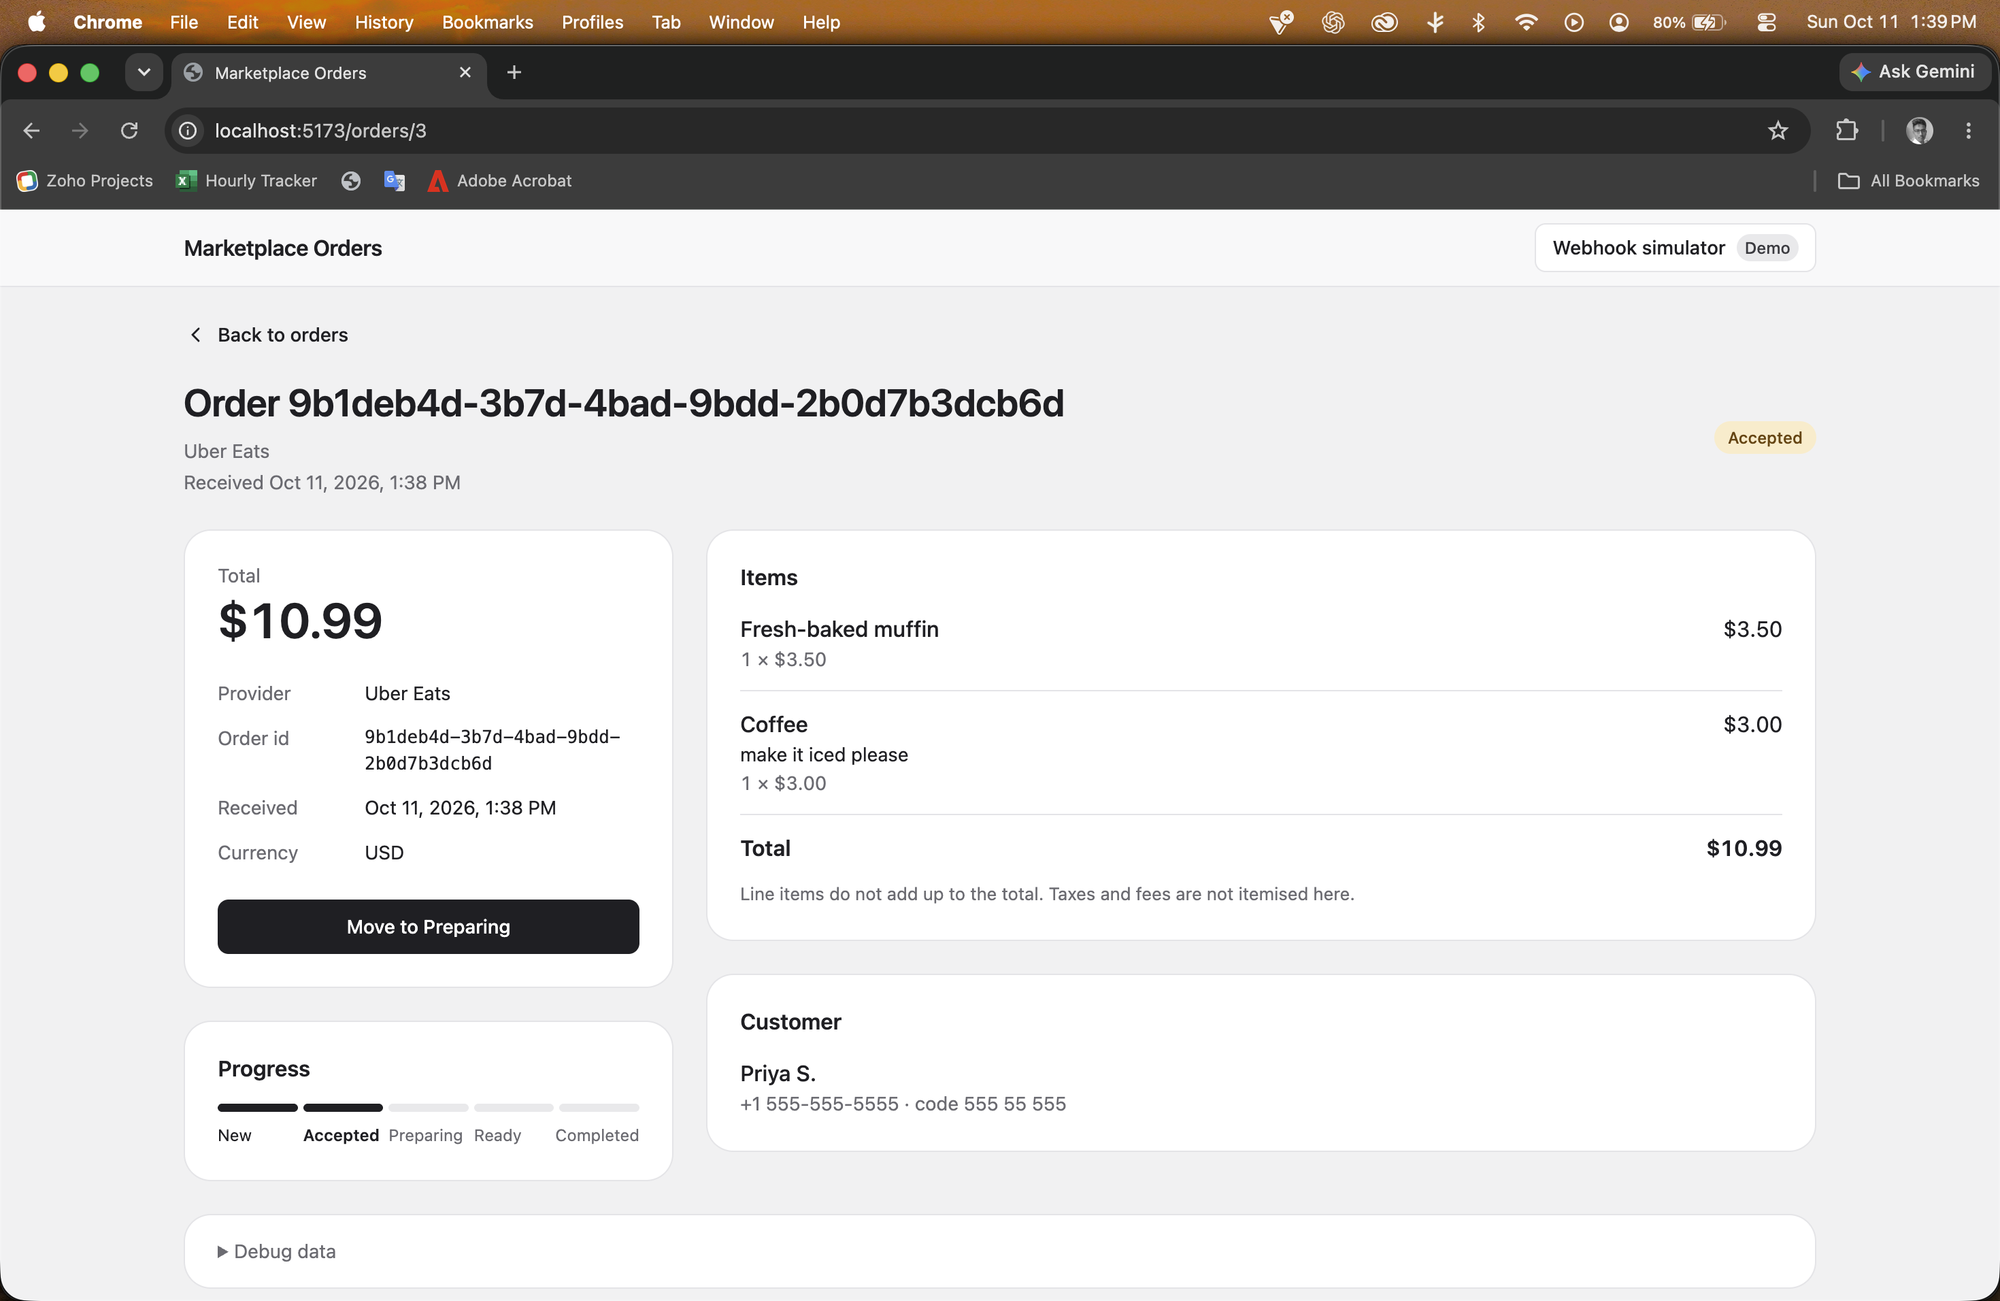
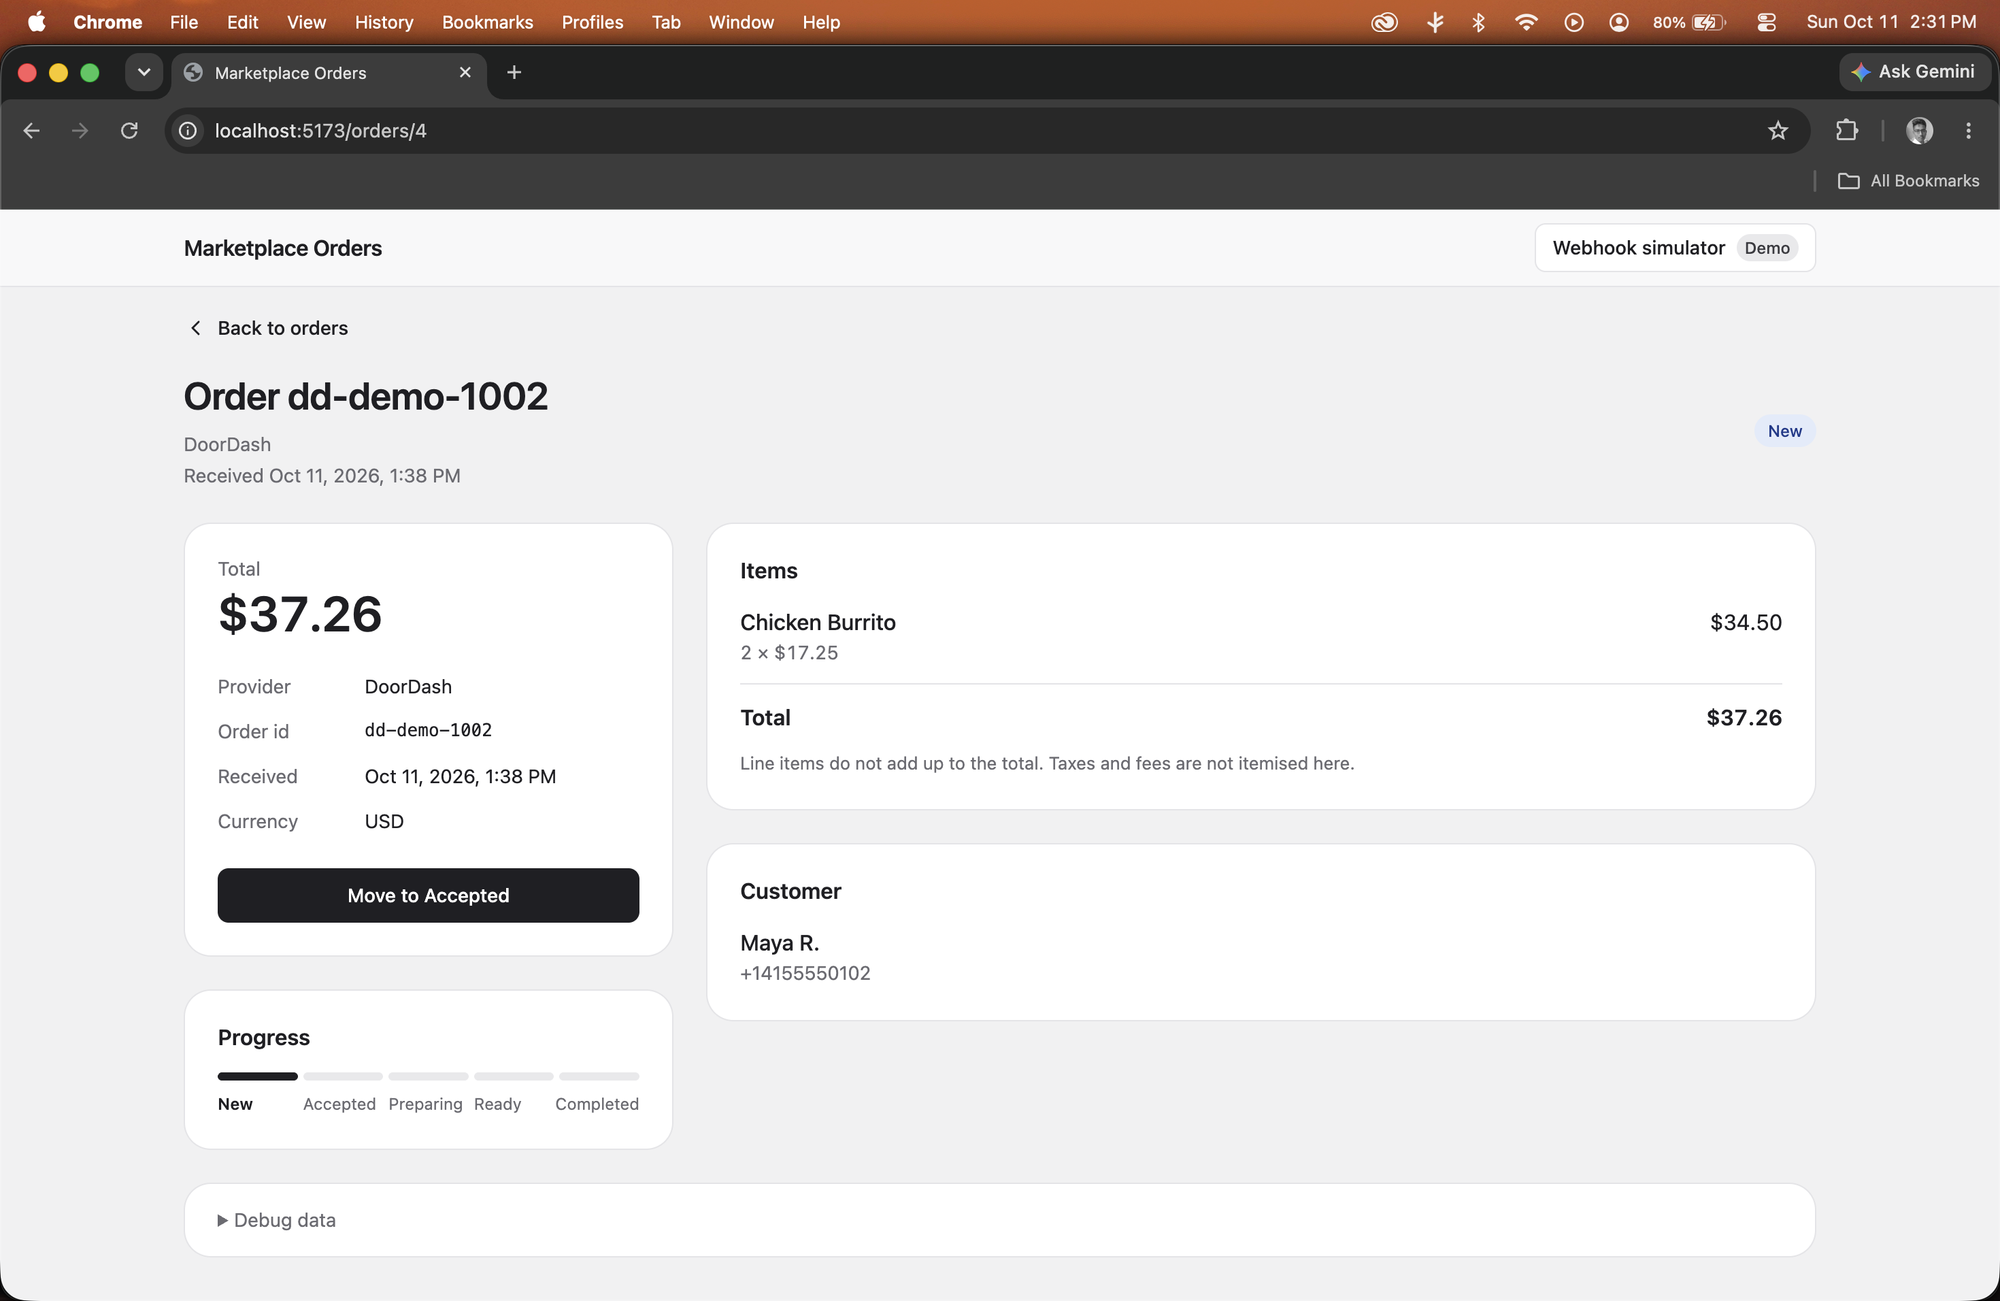
docs(docs): replace screenshots in readme
Use the new desktop and phone screenshots without the bookmarks bar, and
add the webhook simulator on a phone. The phone images are now png.

diff --git a/README.md b/README.md
@@ -427,9 +427,9 @@ The webhook simulator:
 
 ### Phone (390 px)
 
-| Order list | Order detail |
-| --- | --- |
-| <img src="docs/screenshots/orders-list-mobile.jpg" alt="Order list on a phone" width="360"> | <img src="docs/screenshots/order-detail-mobile.jpg" alt="Order detail on a phone" width="360"> |
+| Order list | Order detail | Webhook simulator |
+| --- | --- | --- |
+| <img src="docs/screenshots/orders-list-mobile.png" alt="Order list on a phone" width="300"> | <img src="docs/screenshots/order-detail-mobile.png" alt="Order detail on a phone" width="300"> | <img src="docs/screenshots/webhook-simulator-mobile.png" alt="Webhook simulator on a phone" width="300"> |
 
 ---
 
